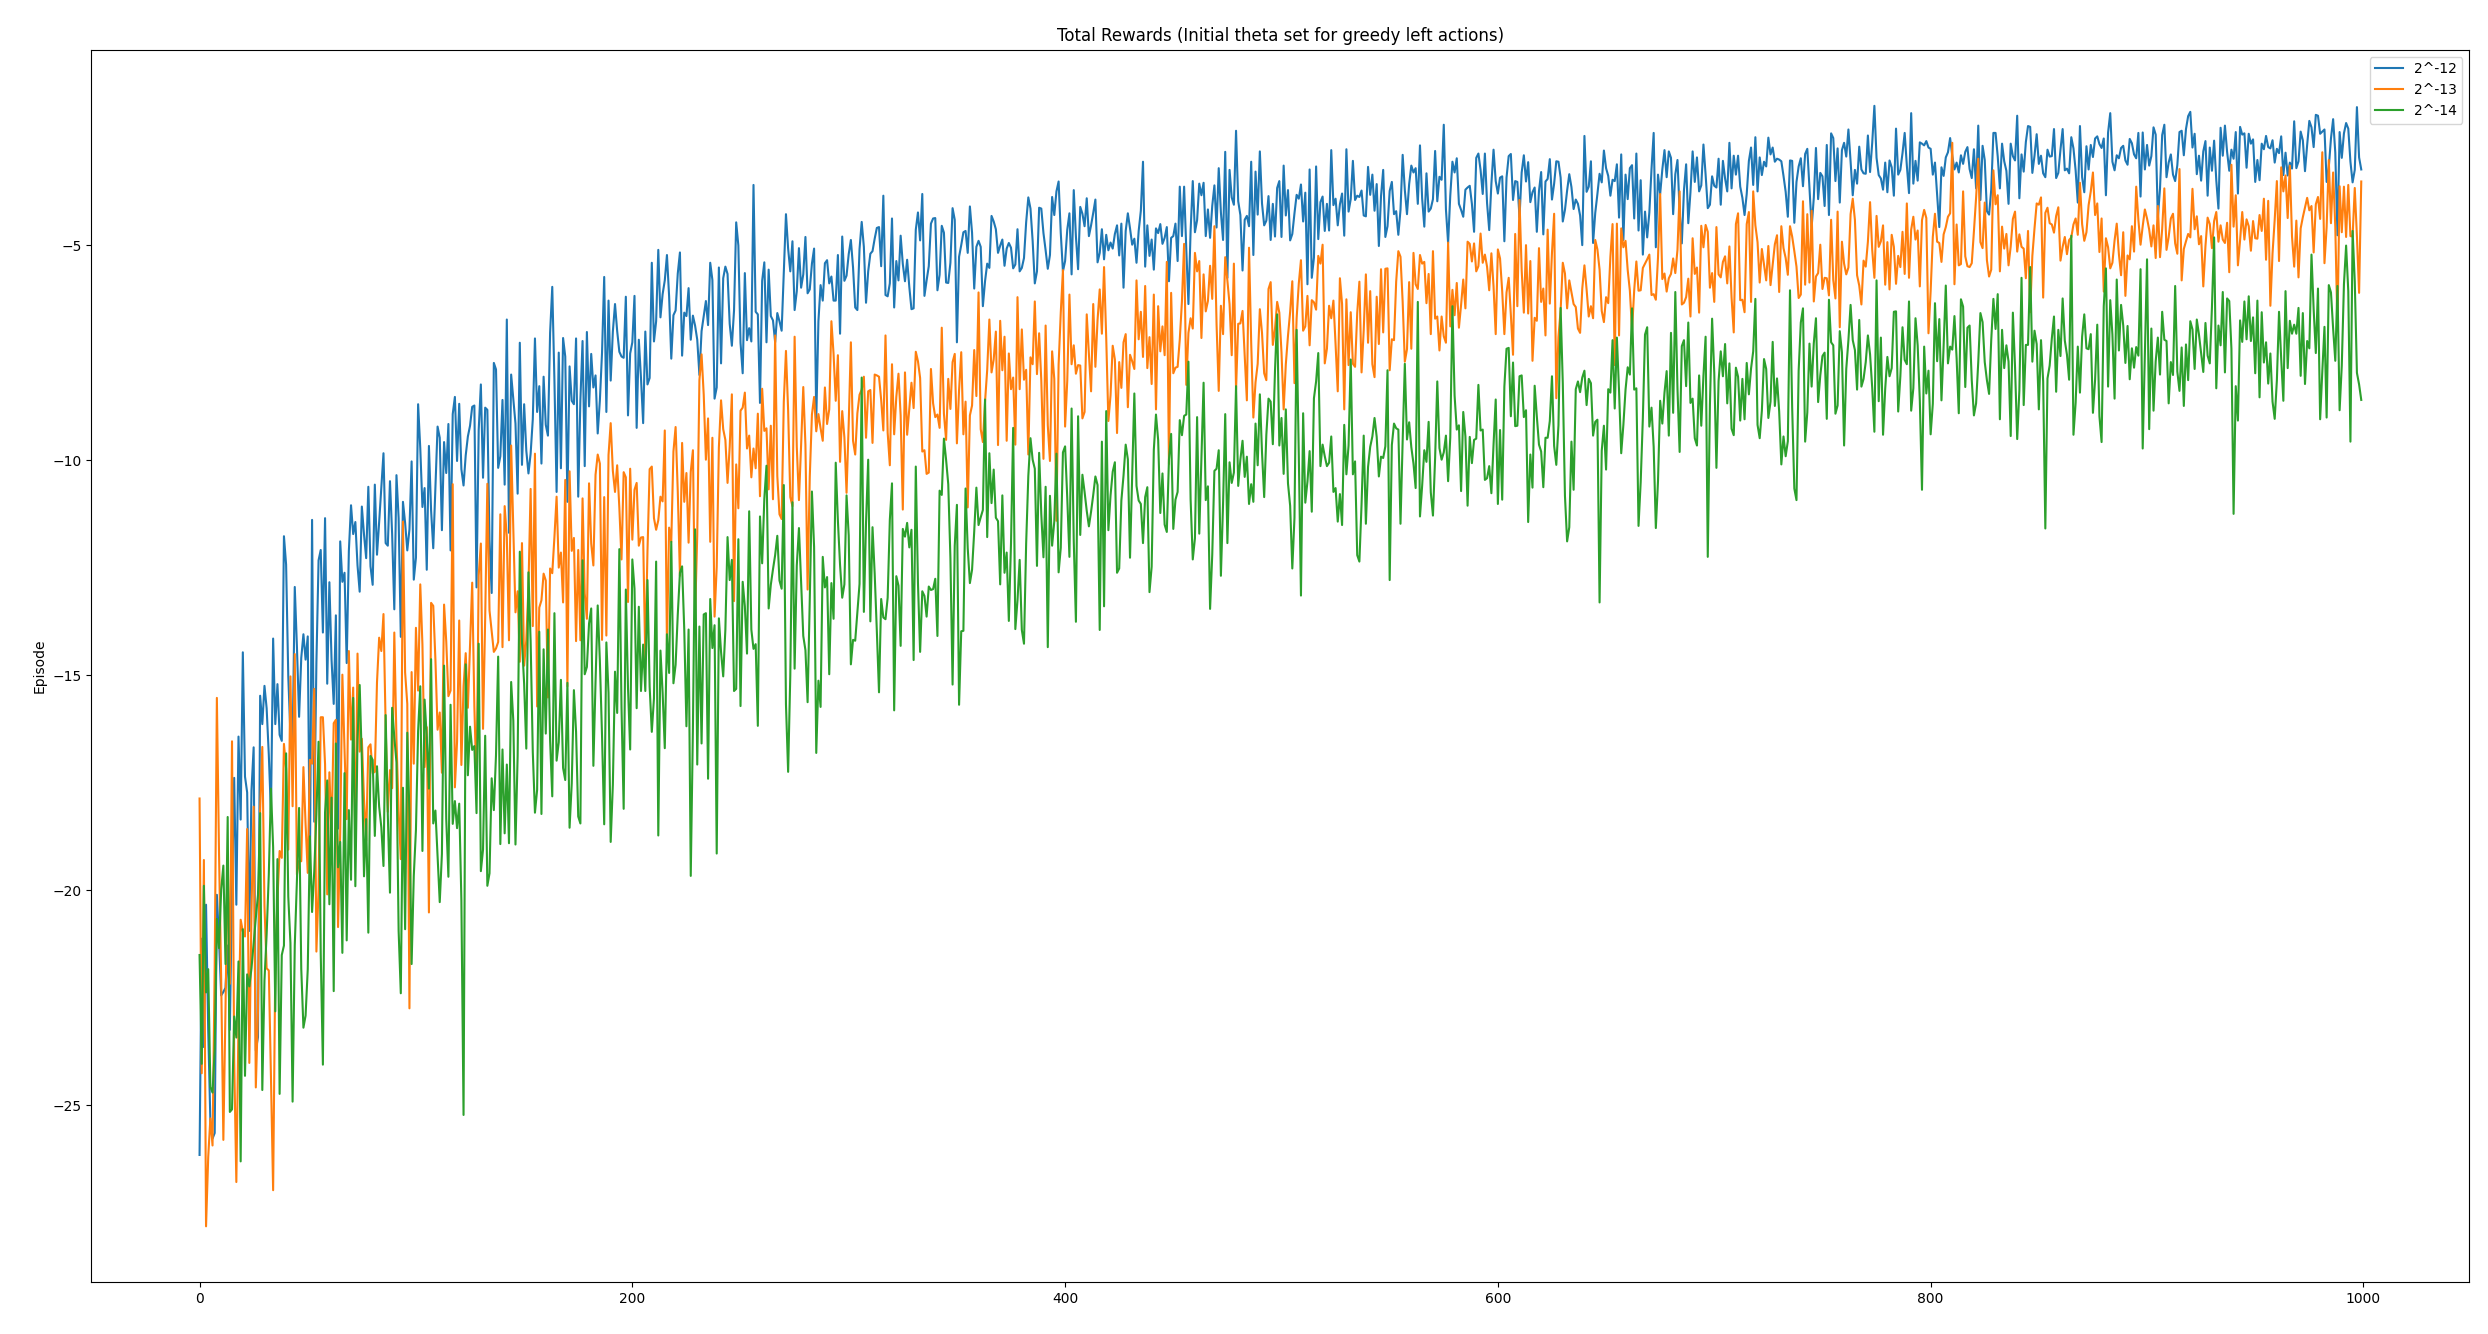
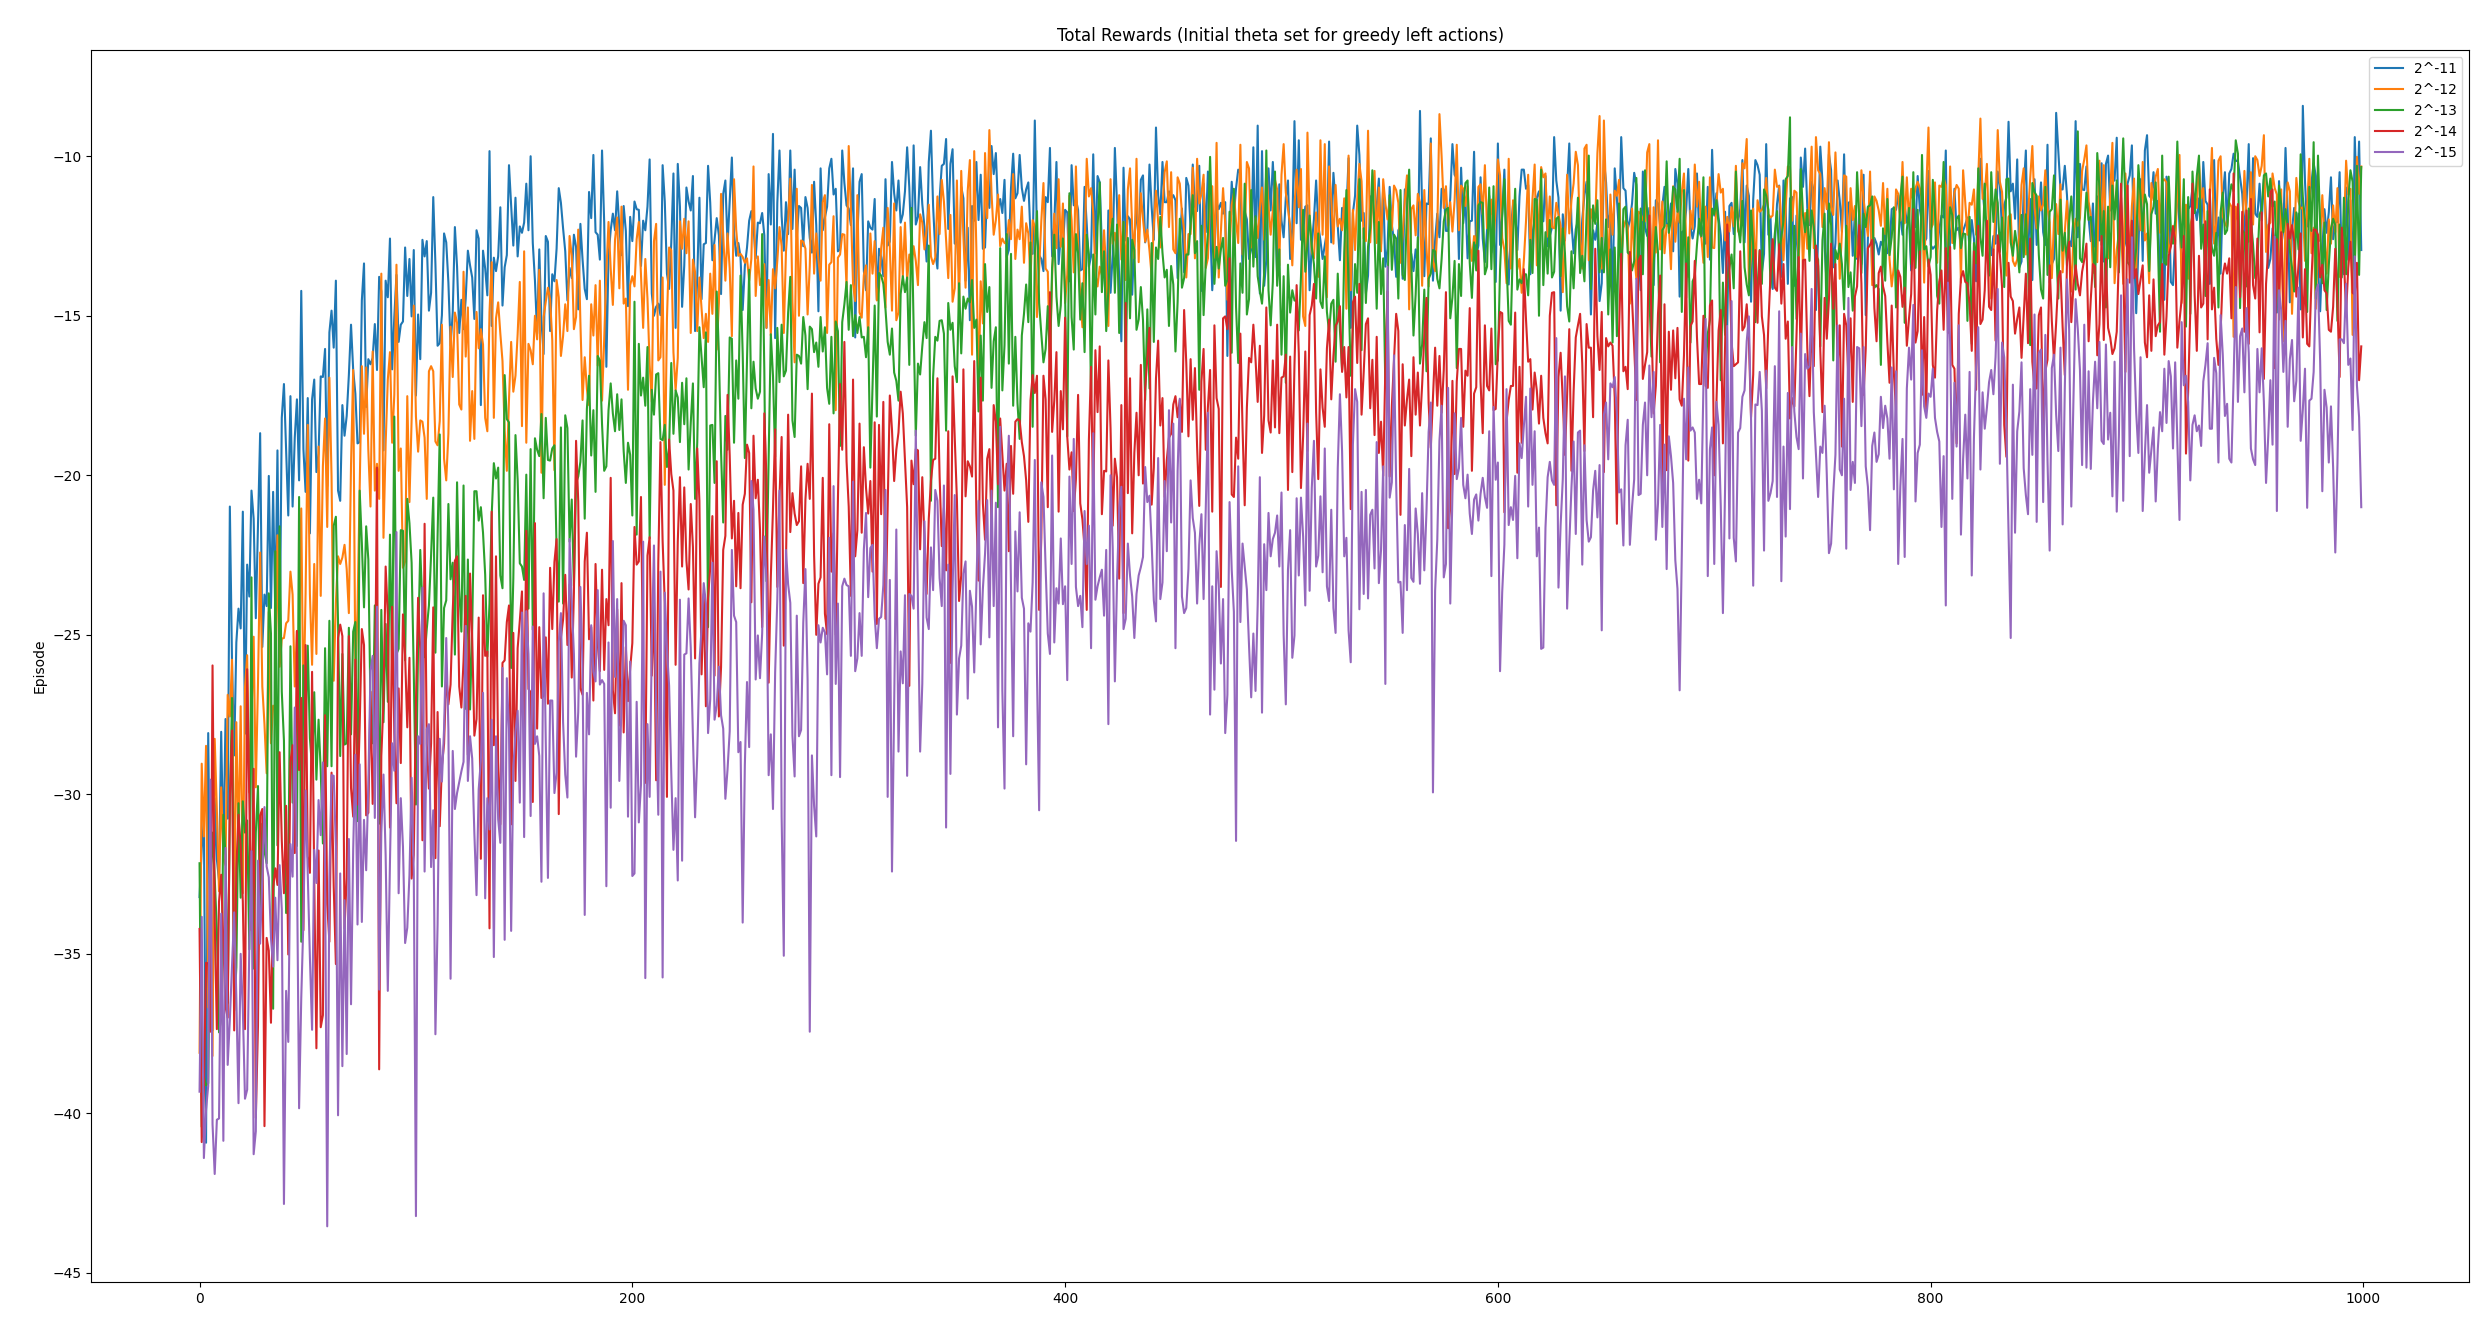
- short corridor env fix. - figure 13.1 fix - figure 13.2 - reinforce_softmax_linear_wih_baselined_mc_agent.py

Changed region(s): [[0.0619, 0.0922, 0.9904, 0.8913]]

diff --git a/agents/pg/reinforce_softmax_linear_mc_agent.py b/agents/pg/reinforce_softmax_linear_mc_agent.py
@@ -1,0 +1,94 @@
+import numpy as np
+from numpy import ndarray, isnan
+
+from agents.base_agent import BaseAgent, AgentTrainingConfig, Feature
+
+
+class ReinforceSoftmaxLinearMcAgent(BaseAgent):
+
+    def __init__(self, n_states, n_actions, config: AgentTrainingConfig, feature: Feature,
+                 initial_theta: ndarray = None):
+        super().__init__(config, n_actions, n_states, "ReinforceSoftmaxLinearMcAgent")
+
+        self.states = []
+        self.actions = []
+        self.rewards = [0]
+
+        self.theta: ndarray = initial_theta
+        if self.theta is None:
+            self.theta = np.zeros(len(feature.s_a(0, 0)))
+
+        self.x = feature
+
+    def get_action(self, obs):
+        pi = self.pi_s(obs)
+        return np.random.choice(range(self.n_actions), p=pi)
+
+    def update(self, state, action, reward, terminated, next_state, truncated=False):
+
+        self.states.append(state)
+        self.actions.append(action)
+        self.rewards.append(reward)
+
+        if terminated or truncated:
+            self.do_episode_ended()
+
+        super().update(state, action, reward, terminated, next_state)
+
+    def do_episode_ended(self):
+        self.learn()
+        self.do_after_episode()
+
+        self.states = []
+        self.actions = []
+        self.rewards = [0]
+
+    def learn(self):
+        T = len(self.states)
+        G = np.empty(T)
+
+        G[-1] = self.rewards[-1]
+        for t in range(T - 2, -1, -1):
+            G[t] = self.rewards[t + 1] + self.c.gamma * G[t + 1]
+
+        for t in range(T):
+            self.theta += (self.c.alpha * pow(self.c.gamma, t) * G[t]) * \
+                          self.grad_log_pi(self.actions[t], self.states[t])
+
+    def grad_log_pi(self, a, s):
+        # equation 13.9
+        return self.x.s_a(s, a) - np.sum([self.pi_a_s(b, s) * self.x.s_a(s, b) for b in range(self.n_actions)],
+                                         axis=0)
+
+    def pi_a_s(self, a, s) -> float:
+        # softmax function, equation 13.2
+        # linear action preferences, equation 13.3
+
+        # x.s matrix, theta vector, do(theta, x.s) requires transpose
+        # dot(x.s, theta) does not require transpose
+        exp_h = np.exp(np.dot(self.x.s(s), self.theta))
+
+        pi = exp_h[a] / np.sum(exp_h)
+
+        if np.isnan(pi):
+            raise Exception("none encountered. Try lowering learning rate.")
+
+        return pi
+
+    def pi_s(self, s) -> ndarray:
+        # softmax function, equation 13.2
+        # linear action preferences, equation 13.3
+
+        # x.s matrix, theta vector, do(theta, x.s) requires transpose
+        # dot(x.s, theta) does not require transpose
+        exp_h = np.exp(np.dot(self.x.s(s), self.theta))
+
+        pi = exp_h / np.sum(exp_h)
+
+        if np.any(np.isnan(pi)):
+            raise Exception("none encountered. Try lowering learning rate.")
+
+        return pi
+
+    def action_values(self):
+        pass

diff --git a/demo/sab/shortcorridor/short_corridor_demo_13.2.py b/demo/sab/shortcorridor/short_corridor_demo_13.2.py
@@ -5,6 +5,7 @@ from tqdm import tqdm
 
 from agents.base_agent import AgentTrainingConfig, Feature
 from agents.pg.reinforce_softmax_linear_mc_agent import ReinforceSoftmaxLinearMcAgent
+from agents.pg.reinforce_softmax_linear_wih_baselined_mc_agent import ReinforceSoftmaxLinearWithBaselineMcAgent
 from env.episode_stats_wrapper import EpisodeStatsWrapper
 from env.short_corridor_env import ShortCorridorEnv
 
@@ -40,12 +41,11 @@ def generate_episodes(env, agent, n_episodes=1000):
         play(agent, env)
 
 
-def execute(alpha, env, n_runs, n_episodes):
+def execute(agent_producer, env, n_runs, n_episodes):
     w_env = EpisodeStatsWrapper(env, n_runs=n_runs, n_episodes=n_episodes)
 
     for run in tqdm(range(n_runs)):
-        agent = ReinforceSoftmaxLinearMcAgent(4, 2, AgentTrainingConfig(alpha=alpha, gamma=1.0),
-                                              CorridorFeature(), initial_theta=np.array([-1.0, 1.0]))
+        agent = agent_producer()
         generate_episodes(w_env, agent, n_episodes=n_episodes)
 
     return np.mean(w_env.rewards, axis=0)
@@ -56,22 +56,31 @@ def start():
     n_episodes = 1000
 
     env = ShortCorridorEnv()
-    alphas = [pow(2, -11), pow(2, -12), pow(2, -13), pow(2, -14), pow(2, -15)]
-    alpha_labels = ["2^-11", "2^-12", "2^-13", "2^-14", "2^-15"] # below "2^-9" is not converging.
+    agents = [
+        lambda: ReinforceSoftmaxLinearMcAgent(4, 2, AgentTrainingConfig(alpha=pow(2, -14), gamma=1.0),
+                                              CorridorFeature(), initial_theta=np.array([-1.0, 1.0])),
+        lambda: ReinforceSoftmaxLinearMcAgent(4, 2, AgentTrainingConfig(alpha=pow(2, -12), gamma=1.0),
+                                              CorridorFeature(), initial_theta=np.array([-1.0, 1.0])),
+        lambda: ReinforceSoftmaxLinearWithBaselineMcAgent(4, 2, AgentTrainingConfig(alpha=pow(2, -9), gamma=1.0,
+                                                                                    alpha_w=pow(2, -6)),
+                                                          CorridorFeature(), initial_theta=np.array([-1.0, 1.0])),
+    ]
 
-    assert len(alphas) == len(alpha_labels)
+    agent_labels = ["a=2^-14", "a=2^-12",  "a=2^-9,a_w=a=2^-6"]
+
+    assert len(agents) == len(agent_labels)
 
     agent_rewards = []
-    for i in range(len(alphas)):
-        rewards = execute(alphas[i], env, n_runs, n_episodes)
+    for i in range(len(agents)):
+        rewards = execute(agents[i], env, n_runs, n_episodes)
         agent_rewards.append(rewards)
 
     fig, axs = plt.subplots(ncols=1, nrows=1, figsize=(20, 10))
 
     axs.set_title("Total Rewards (Initial theta set for greedy left actions)")
 
-    for i in range(len(alphas)):
-        axs.plot(agent_rewards[i], label=alpha_labels[i])
+    for i in range(len(agents)):
+        axs.plot(agent_rewards[i], label=agent_labels[i])
 
     axs.set_ylabel("Total Reward on Episode")
     axs.set_ylabel("Episode")

diff --git a/agents/pg/reinforce_softmax_linear_wih_baselined_mc_agent.py b/agents/pg/reinforce_softmax_linear_wih_baselined_mc_agent.py
@@ -1,13 +1,14 @@
 import numpy as np
-from numpy import ndarray, isnan
+from numpy import ndarray
 
 from agents.base_agent import BaseAgent, AgentTrainingConfig, Feature
 
 
-class ReinforceSoftmaxLinearMcAgent(BaseAgent):
+class ReinforceSoftmaxLinearWithBaselineMcAgent(BaseAgent):
 
-    def __init__(self, n_states, n_actions, config: AgentTrainingConfig, feature: Feature, initial_theta:ndarray=None):
-        super().__init__(config, n_actions, n_states, "ReinforceSoftmaxLinearMcAgent")
+    def __init__(self, n_states, n_actions, config: AgentTrainingConfig, feature: Feature,
+                 initial_theta: ndarray = None):
+        super().__init__(config, n_actions, n_states, "ReinforceSoftmaxLinearWithBaselineMcAgent")
 
         self.states = []
         self.actions = []
@@ -17,6 +18,7 @@ class ReinforceSoftmaxLinearMcAgent(BaseAgent):
         if self.theta is None:
             self.theta = np.zeros(len(feature.s_a(0, 0)))
 
+        self.w: float = 0.0
         self.x = feature
 
     def get_action(self, obs):
@@ -50,8 +52,14 @@ class ReinforceSoftmaxLinearMcAgent(BaseAgent):
             G[t] = self.rewards[t + 1] + self.c.gamma * G[t + 1]
 
         for t in range(T):
-            self.theta += (self.c.alpha * pow(self.c.gamma, t) * G[t]) * \
-                          self.grad_log_pi(self.actions[t], self.states[t])
+            delta = G[t] - self.w
+
+            # since we are using a scalar w instead of a vector w;
+            # the gradient of the value estimate is excluded
+            self.w += self.c.alpha_w * delta
+
+            self.theta += (self.c.alpha * pow(self.c.gamma, t) * delta) \
+                          * self.grad_log_pi(self.actions[t], self.states[t])
 
     def grad_log_pi(self, a, s):
         # equation 13.9

diff --git a/agents/base_agent.py b/agents/base_agent.py
@@ -14,12 +14,13 @@ class Feature:
 
 
 class AgentTrainingConfig:
-    def __init__(self, epsilon=1.0, epsilon_decay=None, min_epsilon=0.01, alpha=0.1, gamma=0.9, lambdaa=0.9, beta=0.1):
+    def __init__(self, epsilon=1.0, epsilon_decay=None, min_epsilon=0.01, alpha=0.1, gamma=0.9, lambdaa=0.9, beta=0.1, alpha_w = None):
         self.epsilon = epsilon
         self.epsilon_decay = epsilon_decay
         self.min_epsilon = min_epsilon
 
         self.alpha = alpha
+        self.alpha_w = alpha_w
         self.beta = beta
         self.gamma = gamma
         self.lambdaa = lambdaa

diff --git a/env/short_corridor_env.py b/env/short_corridor_env.py
@@ -2,7 +2,7 @@ import gymnasium as gym
 import numpy as np
 from gymnasium import spaces
 
-START_STATE = 3
+START_STATE = 0
 
 
 class ShortCorridorEnv(gym.Env):
